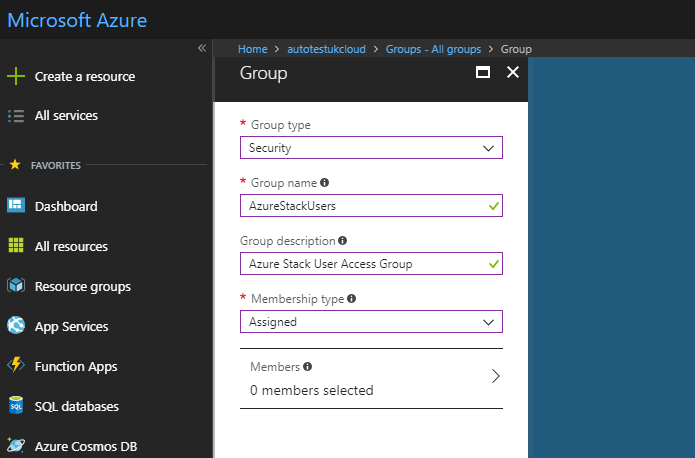
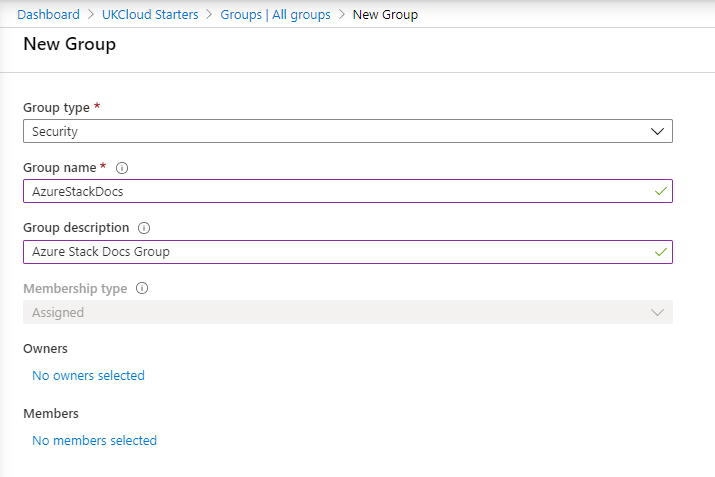
Added note about membership type. Updated screenshots. Updated lastreviewed tags.

diff --git a/articles/azure/azs-how-manage-azure-group.md b/articles/azure/azs-how-manage-azure-group.md
@@ -4,7 +4,7 @@ description: Describes how to apply the appropriate Azure Stack Hub permissions 
 services: azure-stack
 author: Sue Highmoor
 reviewer: William Turner
-lastreviewed: 02/04/2020
+lastreviewed: 03/04/2020
 
 toc_rootlink: Users
 toc_sub1: How To
@@ -59,7 +59,8 @@ To create a group in the Azure portal:
 
 7. In the **Group description** field, enter a brief, but meaningful description for the group.
 
-8. From the **Membership type** list, select **Assigned**.
+    > [!NOTE]
+    > There are two possible options for the **Membership type** field: *Assigned* or *Dynamic*. However, the *Dynamic* option requires at least a Premium P1 license in Azure AD. The dropdown is automatically set to *Assigned* and will be greyed out if you do not meet this requirement.
 
     ![Group blade](images/azs-portal-add-group.png)
 
